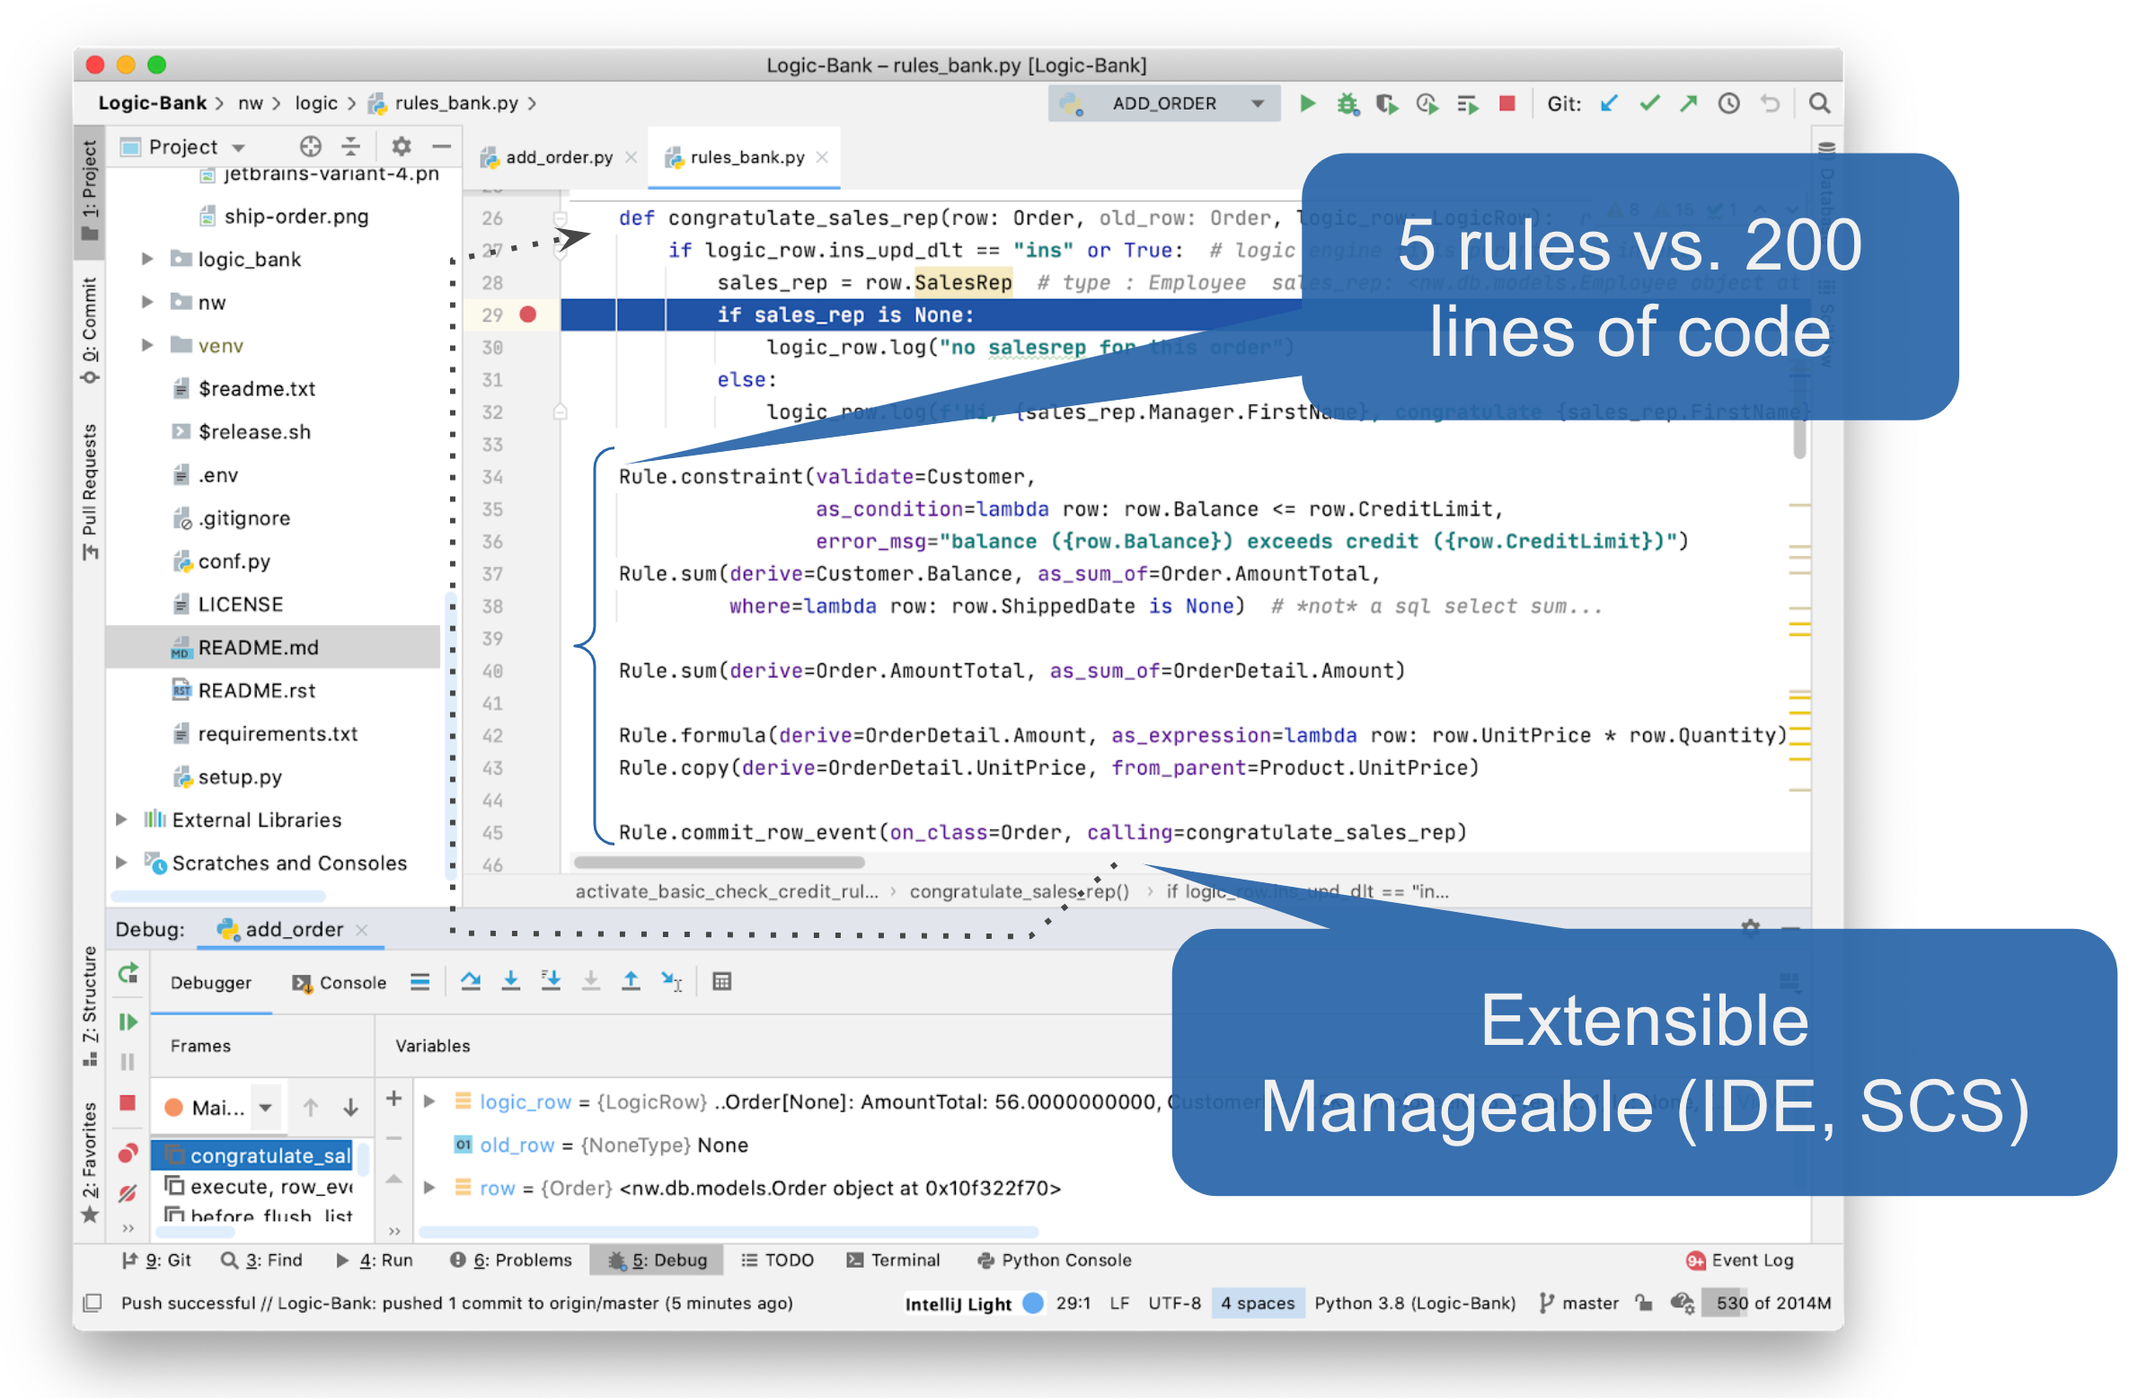
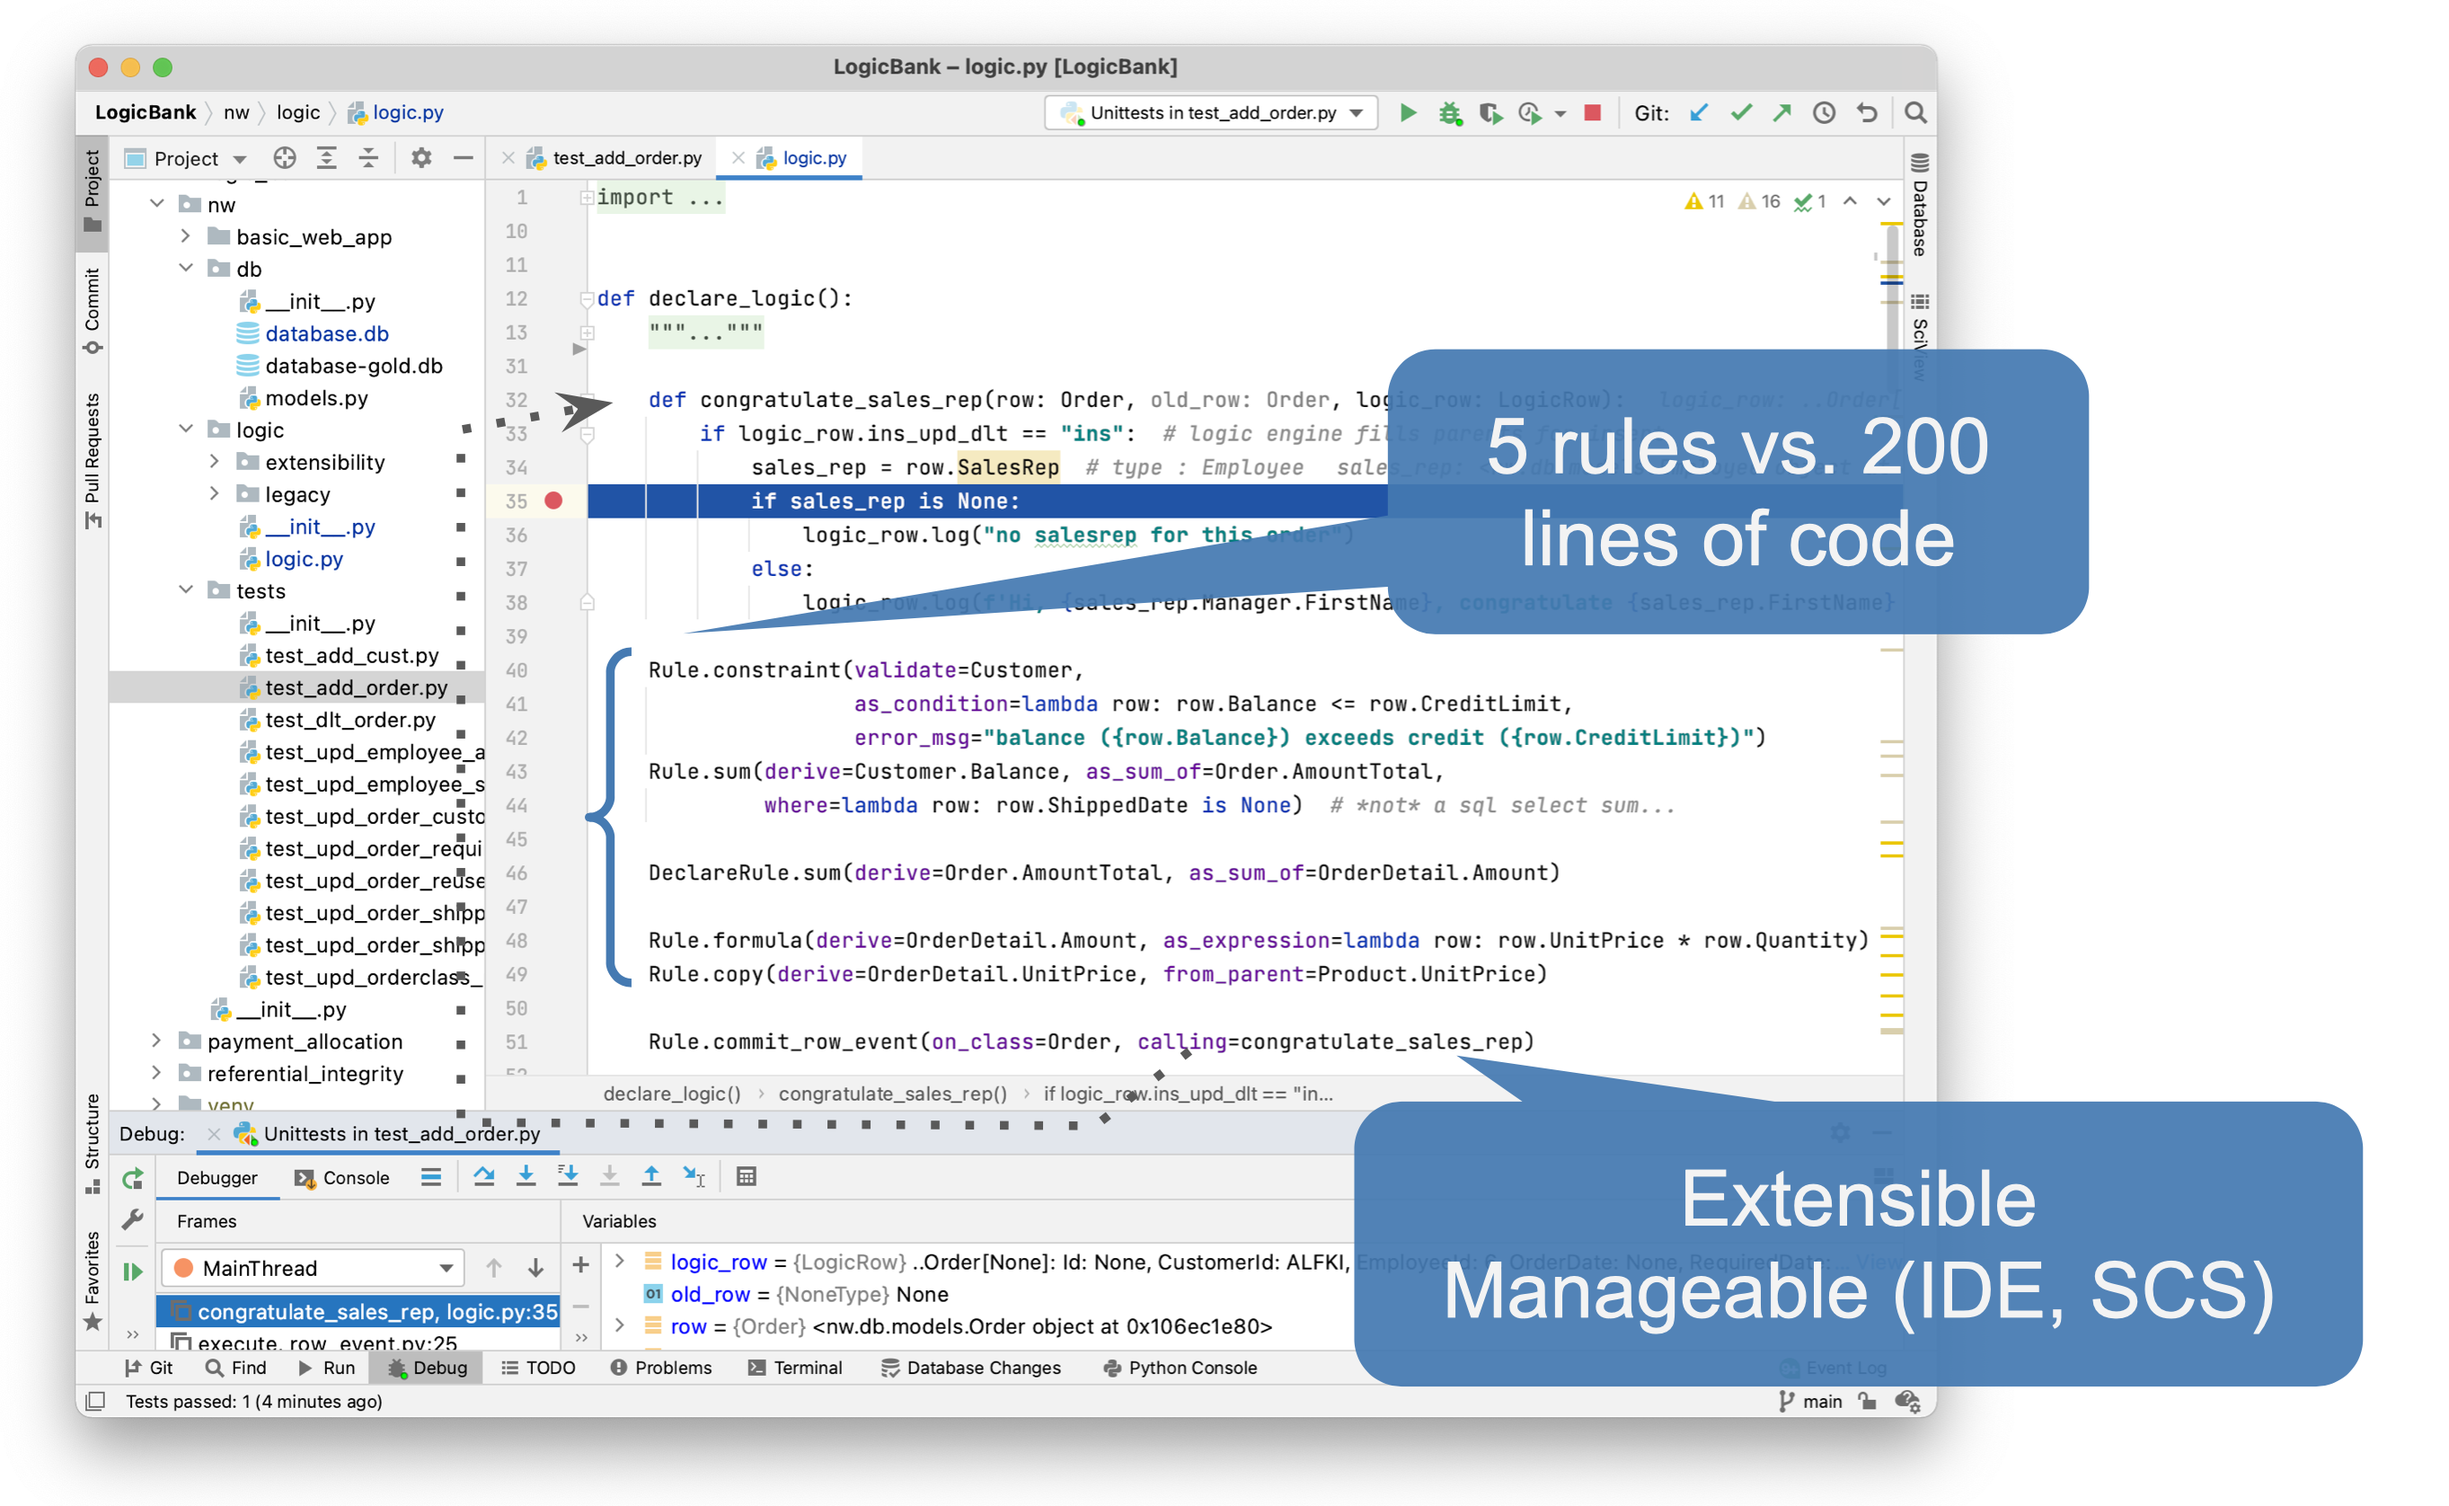
doc upgrade to logic.py

diff --git a/nw/logic/logic.py b/nw/logic/logic.py
@@ -29,10 +29,6 @@ def declare_logic():
     LogicBank.activate(session=session, activator=declare_logic)
     """
 
-    def units_in_stock(row: Product, old_row: Product, logic_row: LogicRow):
-        result = row.UnitsInStock - (row.UnitsShipped - old_row.UnitsShipped)
-        return result
-
     def congratulate_sales_rep(row: Order, old_row: Order, logic_row: LogicRow):
         if logic_row.ins_upd_dlt == "ins":  # logic engine fills parents for insert
             sales_rep = row.SalesRep  # type : Employee
@@ -56,6 +52,9 @@ def declare_logic():
 
     Rule.formula(derive=OrderDetail.ShippedDate, as_exp="row.OrderHeader.ShippedDate")
 
+    def units_in_stock(row: Product, old_row: Product, logic_row: LogicRow):
+        result = row.UnitsInStock - (row.UnitsShipped - old_row.UnitsShipped)
+        return result
     Rule.sum(derive=Product.UnitsShipped, as_sum_of=OrderDetail.Quantity,
              where="row.ShippedDate is not None")
     Rule.formula(derive=Product.UnitsInStock, calling=units_in_stock)

diff --git a/nw/logic/__init__.py b/nw/logic/__init__.py
@@ -4,7 +4,7 @@ import sqlalchemy
 from sqlalchemy.orm import session
 
 from logic_bank.logic_bank import LogicBank
-from nw.logic.rules_bank import declare_logic
+from nw.logic.logic import declare_logic
 
 import nw.logic.legacy.setup as legacy_setup
 

diff --git a/README.rst b/README.rst
@@ -58,6 +58,7 @@ Many thanks to
 - Tyler Band, for testing and the Banking sample
 - Max Tardiveau, for testing
 - Nishanth Shyamsundar, for testing
+- Achim Götz, for design collaboration
 
 
 
@@ -89,3 +90,19 @@ with examples.
 0.5.1 - Support domain object constructors with complex (side effects)
 __init__ behavior; use row_mapper.column_attrs (not all_orm_descriptors)
 to avoid 'flush already in progress' when using flask_sqlalchemy
+
+0.6.0 - Support for
+
+- `Rule Extensibility <https://github.com/valhuber/LogicBank/wiki/Rule-Extensibility>`_
+
+- Generic early events: `early_row_event_all_classes` (see Rule Extensibility link above)
+
+   - e.g., for time/date stamping
+
+- New LogicRow functions (see Rule Extensibility link above):
+
+   - are_attributes_changed
+
+   - set_same_named_attributes
+
+- Minor rename of logic class in `nw`.  Some screen shots may still show the old name (`rules_bank.py`) instead of `logic.py`.
